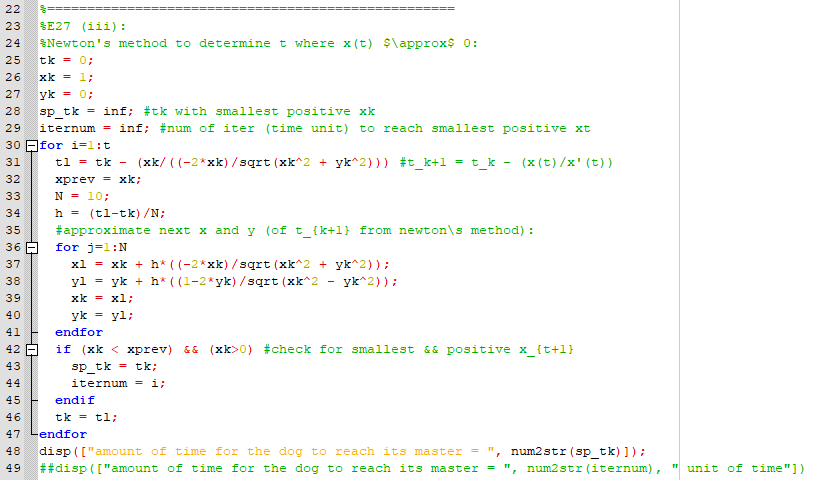
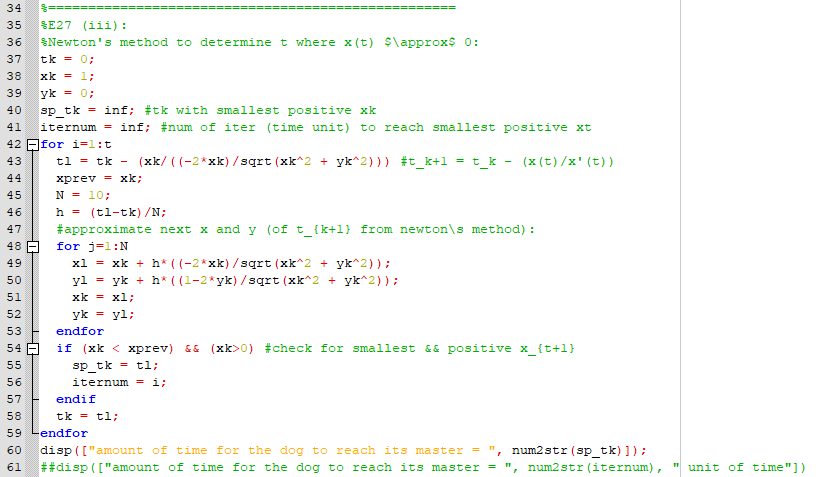
revised E27

Changed region(s): [[0.0, 0.0, 1.0, 1.0], [0.4584, 0.2642, 0.7335, 0.2935], [0.6418, 0.3229, 0.7641, 0.3522]]

diff --git a/2_ode/res/E27.html b/2_ode/res/E27.html
@@ -15,13 +15,13 @@
 	<P>
 	<ul>
 		<li>
-			E27.(i) & (ii):
+			E27.(i):
 			<br>
 			<ul>
 				<li>
 					Code:
 					<br>
-					<img src="e27(i)(ii)_code.png">
+					<img src="e27(i)_code.png">
 					<br>
 					<A HREF="../E27.m">Source Code</A>
 				</li>
@@ -29,9 +29,32 @@
 				<li>
 					Output:
 					<br>
-					The dog starts from (1,0)
+					velocity of river y'(0) = 1, velocity of dog x'(o) = -2; The dog starts from (1,0)
 					<br>
-					<img src="e27(i)(ii)_output.png">
+					<img src="e27(i)_output.png">
+					<br>
+				</li>
+			</ul>
+			<br><br>
+		</li>
+		<li>
+			E27.(ii):
+			<br>
+			<ul>
+				<li>
+					Code:
+					<br>
+					<img src="e27(ii)_code.png">
+					<br>
+					<A HREF="../E27.m">Source Code</A>
+				</li>
+				<br>
+				<li>
+					Output:
+					<br>
+					Using Euler's method
+					<br>
+					<img src="e27(ii)_output.png">
 					<br>
 				</li>
 			</ul>

diff --git a/2_ode/E27.m b/2_ode/E27.m
@@ -1,14 +1,26 @@
-%E27 (i) and (ii):
+%E27 (i):
 h = 0.1;
 t = 11;
-x = y = dx = dy = zeros(t,1);
+x = y = zeros(t,1);
 ##x = linspace(1,0,11)
-x(1) = 1; dx(1) = 2; dy(1) = 1; #velocity of river y'(0) = 1, velocity of dog x'(o) = 2; dog's starting point = (1,0)
+x(1) = 1; dx = -2; dy = 1; #velocity of river y'(0) = 1, velocity of dog x'(o) = -2; dog's starting point = (1,0)
+for i=1:t-1
+  x(i+1) = x(i) + h*dx;
+  y(i+1) = y(i) + h*dy;
+endfor
+plot(x, y);
+xlabel("x");
+ylabel("y");
+figure();
 
-%trajectory using Euler's method:
+
+%E27 (ii):
+t=20
+x = y = zeros(t,1);
+x(1) = 1;
 for i=1:t-1
   x(i+1) = x(i) + h*((-2*x(i))/sqrt(x(i)^2 + y(i)^2));
-  y(i+1) = y(i) + h*((1-2*y(i))/sqrt(x(i)^2 - y(i)^2));
+  y(i+1) = y(i) + h*((1-2*y(i))/sqrt(x(i)^2 + y(i)^2));
 endfor
 
 disp(x);
@@ -35,12 +47,12 @@ for i=1:t
   #approximate next x and y (of t_{k+1} from newton\s method):
   for j=1:N
     xl = xk + h*((-2*xk)/sqrt(xk^2 + yk^2));
-    yl = yk + h*((1-2*yk)/sqrt(xk^2 - yk^2));
+    yl = yk + h*((1-2*yk)/sqrt(xk^2 + yk^2));
     xk = xl;
     yk = yl;
   endfor
   if (xk < xprev) && (xk>0) #check for smallest && positive x_{t+1}
-    sp_tk = tk;
+    sp_tk = tl;
     iternum = i;
   endif
   tk = tl;
